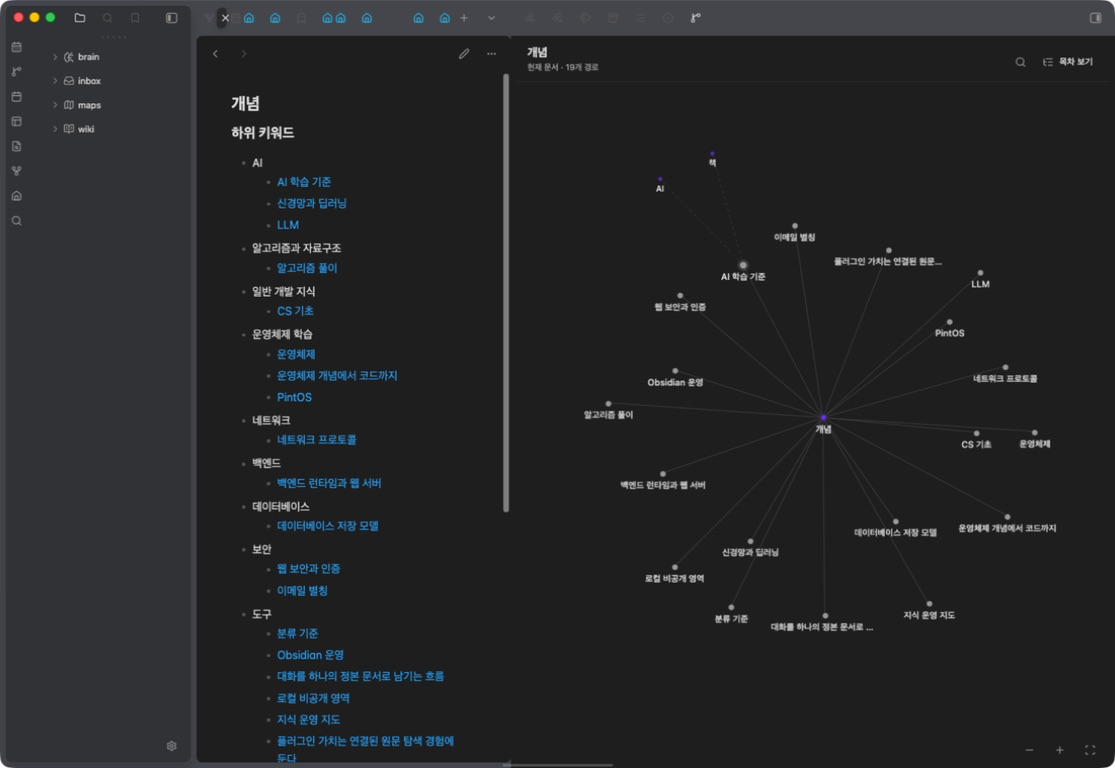
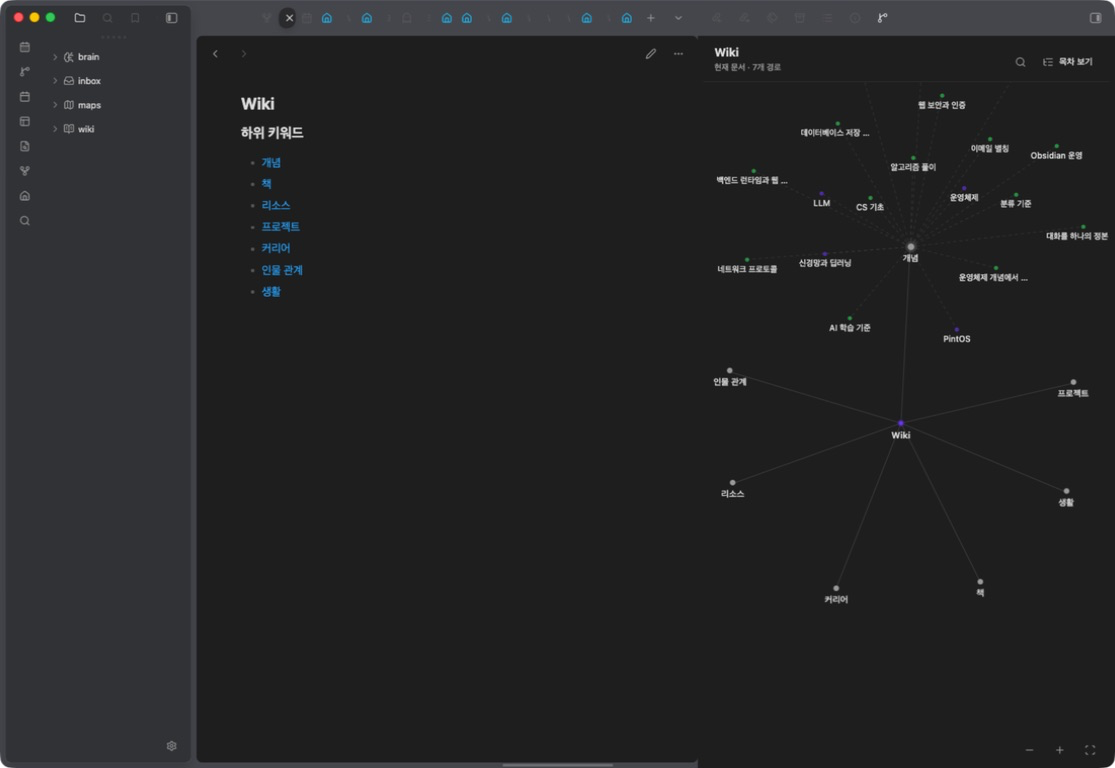
docs: capture Linked Graph 1.4.0 runtime

diff --git a/docs/design-qa.md b/docs/design-qa.md
@@ -17,16 +17,16 @@ The final implementation was captured in Obsidian 1.13.7 with `wiki/README.md` a
 | Surface | Result | Evidence |
 |---|---|---|
 | Graph grammar | passed | The current Markdown note is the movable centre, its resolved outgoing links are surrounding nodes, and each authored link is one visible edge. Every root, direct, and preview title is centred below its dot as in Obsidian Graph. |
-| Canvas use | passed | Graph mode removes body padding, fills the remaining pane, and increases link distance from the compact minimum only when the measured panel can support it. |
+| Canvas use | passed | Graph mode removes body padding and renders an unbounded world through the whole remaining pane. Node coordinates are never clamped to the visible sidebar; pan, zoom, and bounds-fit reveal the rest of the graph. |
 | Moving labels | passed | Every title is part of its force node; the removed group-label layer leaves no fixed captions behind the moving graph. |
 | Route labels | passed | Every direct route keeps a visible title; content-sized native buttons no longer collapse to bare dots. |
-| Motion | passed | `d3-force` link, charge, and collision forces apply equally to the current note and direct nodes. Duplicate `active-leaf-change` and `file-open` events are coalesced so one source change creates one graph. |
-| Viewport safety | passed | A dragged `Wiki` node remained visible after settling; moving nodes are bounded by measured node and sidebar dimensions, and resize reheats the layout. |
+| Motion | passed | `d3-force` link, charge, and collision forces apply equally to the current note and direct nodes. Drag reheats the shared simulation, slower alpha decay and lower velocity damping preserve natural movement, and duplicate source events are coalesced into one graph refresh. |
+| Viewport safety | passed | The world remains larger than the sidebar without clipping node coordinates. A widened leaf immediately exposed more graph area; background pan, zoom controls, and bounds-fit recovered every route without rewriting node positions. |
 | Navigation | passed | On `책`, the centre exposed `상위 문서로 이동: Wiki`; clicking it opened `wiki/README.md` and rebuilt the graph from two book links to seven Wiki routes. |
 | Hover preview | passed | Focusing a direct route exposed the same measured second-level graph used by pointer hover. The source stayed pinned, preview edges remained dashed and non-interactive, and leaving hover or focus removed the entire second level. |
 | Edge geometry | passed | Direct and preview SVG endpoints use the measured dot centre instead of the text-and-dot button centre. Every visible line joins dot to dot. |
 | Edge contrast | passed | Direct links use Obsidian's native `--graph-line` at 1px; preview links use the same theme token as a secondary dashed path. Both remain distinct from node type colours. |
-| Pan and zoom | passed | Background drag pans the world; icon controls zoom out, zoom in, and reset the viewport without writing layout state. |
+| Pan and zoom | passed | Background drag pans the unbounded world; icon controls zoom out, zoom in, and compute a bounds-fit transform without changing or persisting graph coordinates. |
 | Information hierarchy | passed | Current note title and route count remain in the compact header; the graph contains only resolved-link dots, titles, edges, and quiet controls. No static category captions, native path tooltips, parent arrow, or filled hover cards remain. |
 | Colour and shape | passed | Obsidian theme color tokens differentiate only node dots from canonical `node_kind`, `entity_kind`, and `facets`; every label keeps the neutral host text colour. Titles are never used to infer a type. |
 | Settling stability | passed | Resize events reheat only after a meaningful panel-size change; source navigation refreshes once per distinct Markdown path. |
@@ -38,7 +38,7 @@ The final implementation was captured in Obsidian 1.13.7 with `wiki/README.md` a
 1. Rejected expandable cards and cached descendant previews because they duplicated Wiki structure.
 2. Rejected the first static branch layout because it only looked graph-like and did not implement force motion.
 3. Replaced the over-damped custom loop with `d3-force`, drag reheating, collision, and natural settling.
-4. Replaced zero-width label tracks with content-sized flex nodes and added viewport bounds for dragged and resized states.
+4. Replaced zero-width label tracks with content-sized flex nodes and measured collision geometry.
 5. Made the current-note node participate in the same force and drag system, then added canonical-parent upward navigation.
 6. Added pointer-hover and keyboard-focus 2-hop previews without making preview nodes persistent or clickable.
 7. Compared the final panel with the 529×579 reference and widened direct-link distance from 132px to 158px to match Obsidian Local Graph density more closely.
@@ -48,9 +48,10 @@ The final implementation was captured in Obsidian 1.13.7 with `wiki/README.md` a
 11. Removed static category anchors and labels, expanded graph mode edge-to-edge, and replaced the filled hover/focus card with a dot-only emphasis while retaining the 2-hop preview.
 12. Increased direct and preview edge contrast, then removed false button semantics from roots without a canonical parent so the `Wiki` centre no longer receives an action outline.
 13. Coalesced duplicate workspace events, removed graph-path tooltips and parent-arrow decoration, and made plain bullet groups structurally impossible in Graph view.
-14. Replaced fixed link radii with viewport-responsive distances that preserve the compact sidebar minimum and use a widened pane.
+14. Replaced fixed link radii with density-responsive distances that preserve the compact sidebar minimum and expand beyond the previous 280px cap.
 15. Moved every edge endpoint from the node container centre to the measured colour-dot centre.
 16. Replaced hand-tuned edge and label colours with Obsidian's native `--graph-line` and `--graph-text` tokens.
 17. Moved every root, direct, and preview title below its dot while preserving dot-centred edge geometry.
+18. Removed viewport coordinate clamps, changed reset into bounds-fit, adopted a phyllotaxis seed, and retuned force decay, charge, centring, and drag reheating for an Obsidian-like unbounded canvas.
 
 final result: passed

diff --git a/docs/release-process.md b/docs/release-process.md
@@ -5,7 +5,7 @@
 3. Run `npm audit --omit=dev --audit-level=high`.
 4. Build `main.js` with `npm run build`.
 5. Install the local build through the Woon Obsidian plugin adapter and keep its receipt.
-6. Reload Obsidian; verify follow, single graph creation per navigation, movable current node, invisible parent affordance, hover-only second-hop preview, responsive canvas use, metadata colours, direct navigation, collapse, search, empty state, and no Vault writes.
+6. Reload Obsidian; verify follow, single graph creation per navigation, movable current node, invisible parent affordance, hover-only second-hop preview, unbounded pan/zoom, bounds-fit, density-responsive spacing, drag-reheated settling, metadata colours, direct navigation, collapse, search, empty state, and no Vault writes.
 7. Capture the tested right-sidebar runtime using public-safe sample notes.
 8. Update `docs/release-media.json` with dimensions and SHA-256; rerun `npm run check:media`.
 9. Verify manifest, package, tag, and release versions match.
